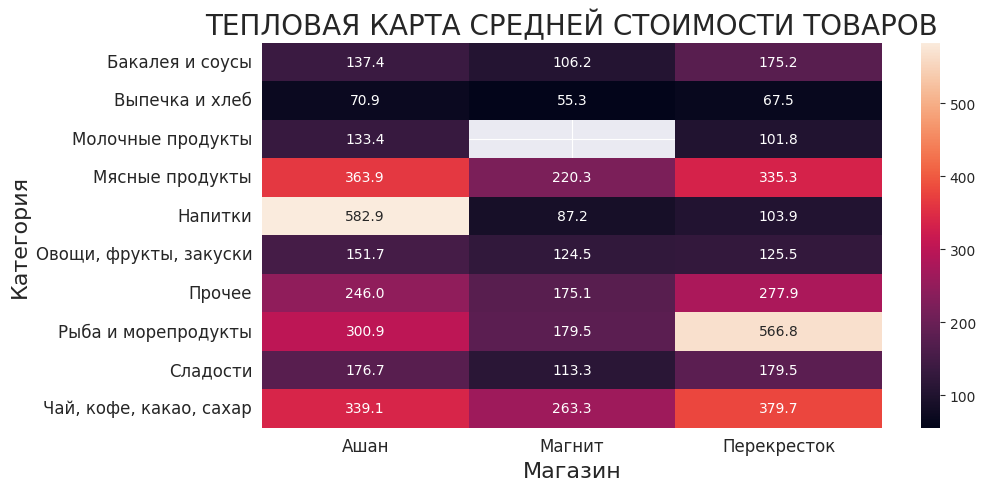
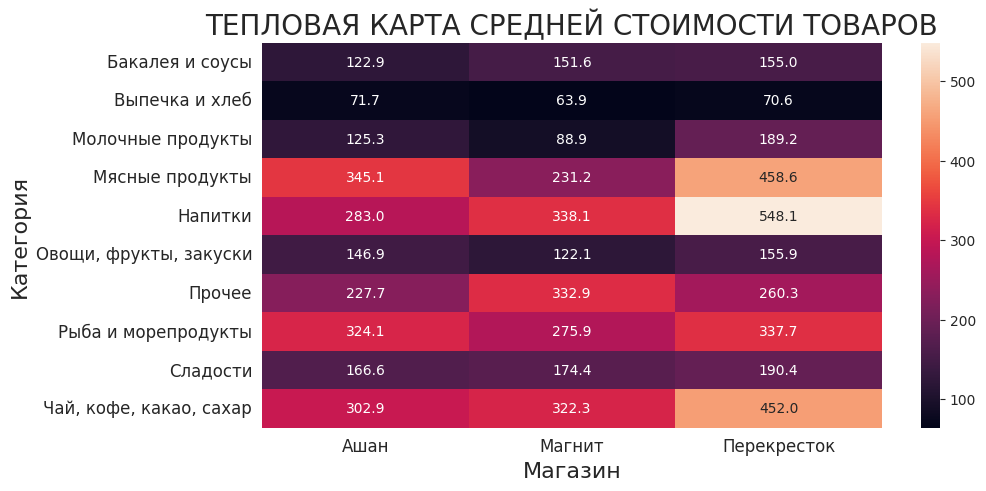
whitelists turned off in parser

diff --git a/parser/store/magnit.py b/parser/store/magnit.py
@@ -3,10 +3,10 @@ from requests import Session
 
 from db.pw_model import Product
 
-categories = [1, 36861, 36883, 36895, 36893, 36885, 36881, 36879, 36877, 36875, 36867, 36865, 16869, 16865, 16881, 16883, 16887, 16885, 16675, 17481, 17473, 17475, 17477, 16871, 16737, 16733, 16543, 16547, 16549, 27557, 4841, 4843, 4845, 4854, 17637, 17639, 4844, 17627, 17629, 17631, 4851, 4847, 4850, 4848, 4849, 17489, 17491, 17493, 17495, 4837, 4842, 27187, 18063, 17621, 17623, 17625, 4836, 17673, 18061, 4839, 16967, 4887, 4893, 4894, 4886, 4885, 4889, 4890, 4891, 4892, 4568, 4564, 4565, 4566, 4567, 4552, 16533, 16461, 16531, 4548, 4551, 16349, 16351, 16353, 16355, 16357, 16359, 16361, 13385, 4437, 4440, 4442, 4534, 16535, 16537, 4538, 4540, 4541, 4557, 4558, 4559, 4560, 4561, 4562, 16265, 4531, 16337, 4532, 4866, 4868, 4867, 4873, 4870, 17977, 4864, 4869, 17607, 4859, 4862, 4861, 4871, 4863, 7361, 5010, 5002, 4999, 26741, 5001, 5003, 5006, 5007, 5008, 5009, 7499, 7498, 7501, 7502, 7507, 7508, 7500, 7503, 7504, 7505, 7506, 7509, 17483, 35739, 7511, 17603, 17605, 37255, 37257, 37259, 37265, 37267, 37269, 37251, 37241, 37243, 7491, 37229, 7512, 7513, 7516, 7517, 7519, 27729, 7559, 7633, 16561, 16575, 16565, 16567, 16563, 16581, 16585, 16583, 7199, 7201, 7198, 7202, 7217, 7730, 7218, 7215, 7216, 7763, 7204, 7210, 7205, 7209, 7208, 7206, 7207, 7213, 7214, 7212, 7836, 7225, 7226, 7844, 7845, 7219, 7220, 7221, 7222, 7365, 35737, 16399, 16401, 16395, 16393, 16403, 16397, 16375, 16367,
-              16371, 18739, 16383, 16381, 16387, 16389, 16373, 12791, 12783, 12785, 16151, 12787, 12793, 12775, 12769, 12771, 12773, 12767, 5277, 16181, 5279, 18433, 18437, 18435, 18123, 18345, 18339, 18343, 18341, 5273, 5275, 7157, 4875, 4883, 4879, 4880, 17169, 4876, 4882, 7764, 12437, 12439, 12541, 12695, 12751, 16143, 16145, 16147, 16149, 12697, 12443, 12547, 18615, 18489, 18491, 18487, 4460, 4462, 4463, 4464, 18485, 18481, 18483, 18479, 4467, 4461, 27991, 27987, 27997, 28001, 28035, 28019, 28015, 28011, 28009, 28033, 28049, 28037, 23521, 17915, 17909, 17911, 17931, 17933, 33001, 17929, 36983, 18105, 19675, 19677, 37025, 37027, 28371, 28373, 28375, 28377, 28381, 7878, 33047, 27773, 27819, 27821, 27831, 32909, 32875, 32877, 32879, 32959, 4526, 4507, 18083, 18099, 33037, 37357, 36823, 36821, 27559, 4335, 4336, 4337, 4341, 4343, 4323, 27633, 27641, 4363, 33507, 27643, 4350, 4351, 4353, 37191, 37199, 4325, 37195, 34749, 37183, 4272, 4208, 4320, 4374, 4373, 4372, 36209, 7636, 4371, 4346, 7771, 28513, 28517, 28521, 5108, 36817, 7521, 4360, 28483, 28485, 5177, 7663, 7687, 37303, 37301, 7815, 7710, 5142, 32985, 32989, 7761, 5145, 5146, 5233, 5148, 5128, 28641, 5087, 5083, 5086, 27775, 27133, 27135, 27143, 27145, 27155, 27165, 5131, 5099, 5105, 28595, 28601, 5181, 7767, 23285, 23287, 23289, 23293, 23291, 23187, 23191, 23193, 23195, 23199, 23235, 23237, 23239, 23241, 23243, 23245, 23247, 23249, 23251]
+# categories = [1, 36861, 36883, 36895, 36893, 36885, 36881, 36879, 36877, 36875, 36867, 36865, 16869, 16865, 16881, 16883, 16887, 16885, 16675, 17481, 17473, 17475, 17477, 16871, 16737, 16733, 16543, 16547, 16549, 27557, 4841, 4843, 4845, 4854, 17637, 17639, 4844, 17627, 17629, 17631, 4851, 4847, 4850, 4848, 4849, 17489, 17491, 17493, 17495, 4837, 4842, 27187, 18063, 17621, 17623, 17625, 4836, 17673, 18061, 4839, 16967, 4887, 4893, 4894, 4886, 4885, 4889, 4890, 4891, 4892, 4568, 4564, 4565, 4566, 4567, 4552, 16533, 16461, 16531, 4548, 4551, 16349, 16351, 16353, 16355, 16357, 16359, 16361, 13385, 4437, 4440, 4442, 4534, 16535, 16537, 4538, 4540, 4541, 4557, 4558, 4559, 4560, 4561, 4562, 16265, 4531, 16337, 4532, 4866, 4868, 4867, 4873, 4870, 17977, 4864, 4869, 17607, 4859, 4862, 4861, 4871, 4863, 7361, 5010, 5002, 4999, 26741, 5001, 5003, 5006, 5007, 5008, 5009, 7499, 7498, 7501, 7502, 7507, 7508, 7500, 7503, 7504, 7505, 7506, 7509, 17483, 35739, 7511, 17603, 17605, 37255, 37257, 37259, 37265, 37267, 37269, 37251, 37241, 37243, 7491, 37229, 7512, 7513, 7516, 7517, 7519, 27729, 7559, 7633, 16561, 16575, 16565, 16567, 16563, 16581, 16585, 16583, 7199, 7201, 7198, 7202, 7217, 7730, 7218, 7215, 7216, 7763, 7204, 7210, 7205, 7209, 7208, 7206, 7207, 7213, 7214, 7212, 7836, 7225, 7226, 7844, 7845, 7219, 7220, 7221, 7222, 7365, 35737, 16399, 16401, 16395, 16393, 16403, 16397, 16375, 16367,
+#               16371, 18739, 16383, 16381, 16387, 16389, 16373, 12791, 12783, 12785, 16151, 12787, 12793, 12775, 12769, 12771, 12773, 12767, 5277, 16181, 5279, 18433, 18437, 18435, 18123, 18345, 18339, 18343, 18341, 5273, 5275, 7157, 4875, 4883, 4879, 4880, 17169, 4876, 4882, 7764, 12437, 12439, 12541, 12695, 12751, 16143, 16145, 16147, 16149, 12697, 12443, 12547, 18615, 18489, 18491, 18487, 4460, 4462, 4463, 4464, 18485, 18481, 18483, 18479, 4467, 4461, 27991, 27987, 27997, 28001, 28035, 28019, 28015, 28011, 28009, 28033, 28049, 28037, 23521, 17915, 17909, 17911, 17931, 17933, 33001, 17929, 36983, 18105, 19675, 19677, 37025, 37027, 28371, 28373, 28375, 28377, 28381, 7878, 33047, 27773, 27819, 27821, 27831, 32909, 32875, 32877, 32879, 32959, 4526, 4507, 18083, 18099, 33037, 37357, 36823, 36821, 27559, 4335, 4336, 4337, 4341, 4343, 4323, 27633, 27641, 4363, 33507, 27643, 4350, 4351, 4353, 37191, 37199, 4325, 37195, 34749, 37183, 4272, 4208, 4320, 4374, 4373, 4372, 36209, 7636, 4371, 4346, 7771, 28513, 28517, 28521, 5108, 36817, 7521, 4360, 28483, 28485, 5177, 7663, 7687, 37303, 37301, 7815, 7710, 5142, 32985, 32989, 7761, 5145, 5146, 5233, 5148, 5128, 28641, 5087, 5083, 5086, 27775, 27133, 27135, 27143, 27145, 27155, 27165, 5131, 5099, 5105, 28595, 28601, 5181, 7767, 23285, 23287, 23289, 23293, 23291, 23187, 23191, 23193, 23195, 23199, 23235, 23237, 23239, 23241, 23243, 23245, 23247, 23249, 23251]
 
-whitelist = ['moloko-syr-yaytsa', 'ovoshchi-i-frukty','bakaleya-sousy','myaso-ptitsa','sosiski-kolbasy-delikatesy','ryba-i-moreprodukty','sladosti-torty-pirozhnye','konservy-myod-varenye','chay-kofe-kakao','khleb-vypechka','napitki','chipsy-orekhi-sukhariki','zamorozhennye-produkty','']
+# whitelist = ['moloko-syr-yaytsa', 'ovoshchi-i-frukty','bakaleya-sousy','myaso-ptitsa','sosiski-kolbasy-delikatesy','ryba-i-moreprodukty','sladosti-torty-pirozhnye','konservy-myod-varenye','chay-kofe-kakao','khleb-vypechka','napitki','chipsy-orekhi-sukhariki','zamorozhennye-produkty','']
 
 class MagnitParser:
 
@@ -28,8 +28,9 @@ class MagnitParser:
 
     def total_products(self):
         url = 'https://web-gateway.middle-api.magnit.ru/v1/goods/filters'
-        r = self.client.post(url, json={'categoryIDs': categories, 'includeForAdults': True,
-                             "shopType": "1", "storeCodes": ["773797"], "filters": []})
+        r = self.client.post(url, json={'categoryIDs': [], 'includeForAdults': True,
+                            #  "shopType": "1", 
+                             "storeCodes": [self.stockId], "filters": []})
         
         return r.json()['pagination']['totalCount']
     
@@ -38,7 +39,7 @@ class MagnitParser:
         r = self.client.get(url)
 
         data = r.json()
-        return [ctg for ctg in data if ctg['code'] in whitelist]
+        return [ctg for ctg in data if ctg['code']]
     
     def get_subcategory_ids(self, category: dict):
         def helper(category: dict) -> list[int]:
@@ -94,8 +95,6 @@ class MagnitParser:
 
         time.sleep(1)
         for ctg in ctgs:
-            if ctg['code'] not in whitelist:
-                continue
             print(ctg['name'])
             ctg_ids = self.get_subcategory_ids(ctg)
             # print(ctg_ids)

diff --git a/parser/store/ashan.py b/parser/store/ashan.py
@@ -3,8 +3,8 @@ from requests import Session
 
 from db.pw_model import Product
 
-whitelist = ['voda-soki-napitki', 'chay-kofe-sladosti',
-             'bakaleya', 'konditerskie_izdeliya', 'hlebnaya-vypechka', 'ryba-ikra-moreprodukty', 'zamorozhennye-produkty', 'orehi-suhofrukty-sneki', 'ovoschi-frukty-zelen-griby-yagody', 'kolbasnye-izdeliya', 'ptica-myaso', 'syry', 'moloko-syr-yayca', 'alkogol']
+# whitelist = ['voda-soki-napitki', 'chay-kofe-sladosti',
+#              'bakaleya', 'konditerskie_izdeliya', 'hlebnaya-vypechka', 'ryba-ikra-moreprodukty', 'zamorozhennye-produkty', 'orehi-suhofrukty-sneki', 'ovoschi-frukty-zelen-griby-yagody', 'kolbasnye-izdeliya', 'ptica-myaso', 'syry', 'moloko-syr-yayca', 'alkogol']
 
 
 class AshanParser():
@@ -80,8 +80,8 @@ class AshanParser():
 
         time.sleep(1)
         for ctg in ctgs:
-            if ctg['code'] not in whitelist:
-                continue
+            # if ctg['code'] not in whitelist:
+            #     continue
             print(ctg['name'])
             products = self.fetch_products(
                 category=ctg['code'], v=True, sleep_sec=0.3)
